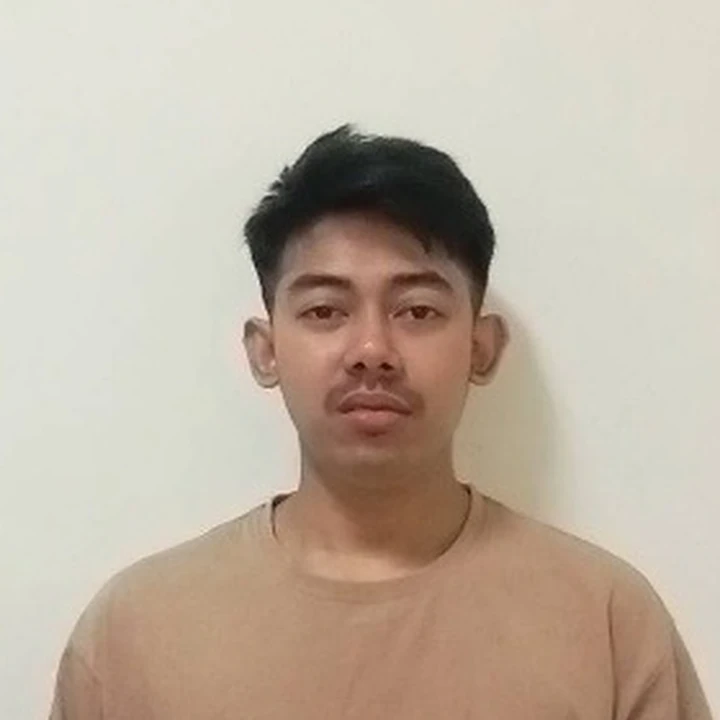
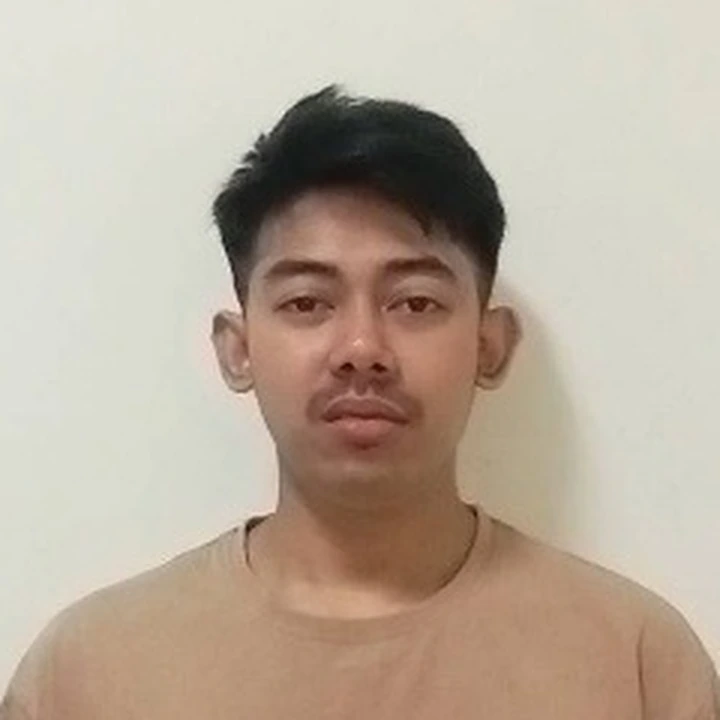
fix(portraits): tighten SOUTHBOYS #13 and #14 framing after actual-route review

diff --git a/audit/portrait-southboys-2026-11-04.md b/audit/portrait-southboys-2026-11-04.md
@@ -36,3 +36,8 @@
 - 本地原圖與模擬圓形已做目視比較，但**模擬不等於實際網站 QA**。完成須另確認 TypeScript、賽季資料驗證、production build、GitHub Actions、預覽 commit 與實際截圖。
 - 本報告只記錄修正後候選；最終視覺驗收仍以 Owner 確認為準。
 - 需補清楚原照優先：#11 迪馬斯、#14 立嘉；#4 李福祥與 #13 偉亦的原圖畫質亦受限。不得用 AI 生成臉部冒充高清原圖。
+
+## 真實路由首輪檢視後的兩張微調
+- #13 偉亦：將原始 image18.jpeg 取景收至 240×240 原始像素，臉部在 48px 仍較易辨識，頭髮與下巴完整。
+- #14 立嘉：將原始 image19.jpeg 取景收至 250×250 原始像素，減少車站背景、突出人臉；仍受原始遠景解析度限制。
+- 以上兩張只重裁同一張原始 Excel 照片，檔名映射、其他照片與 CSS 不變。首輪截圖為較寬版本；最終驗收以此修正 commit 後的 GitHub Actions 截圖為準。
